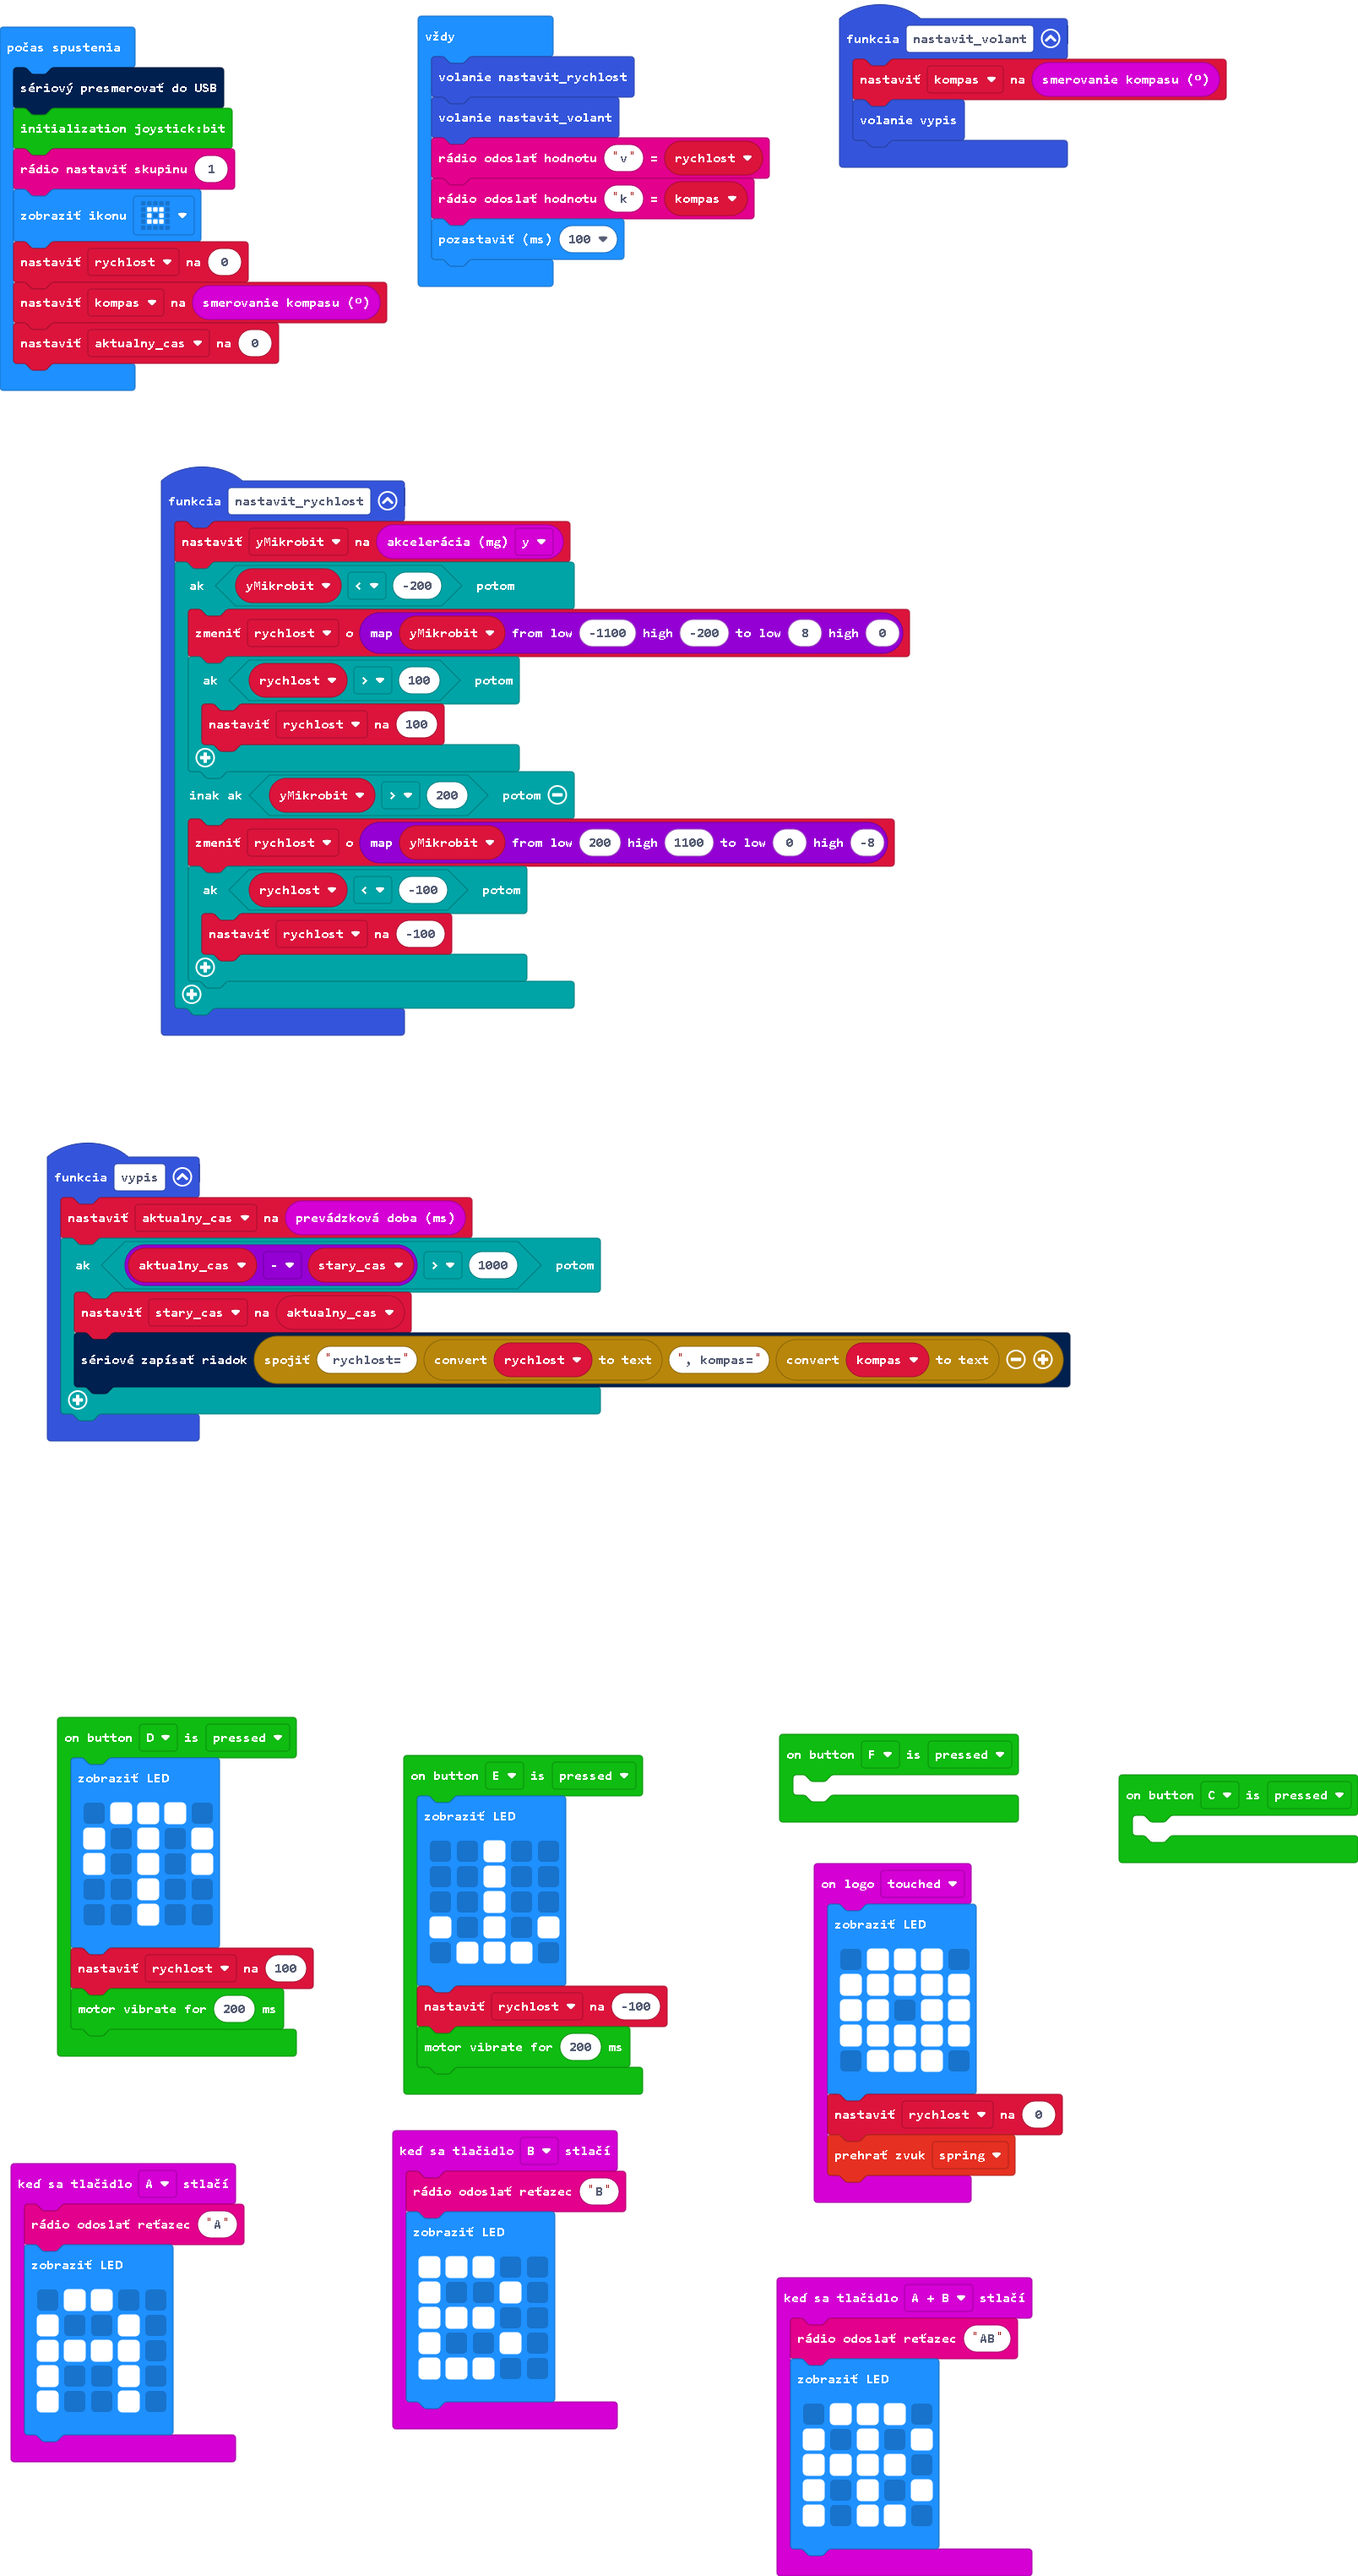
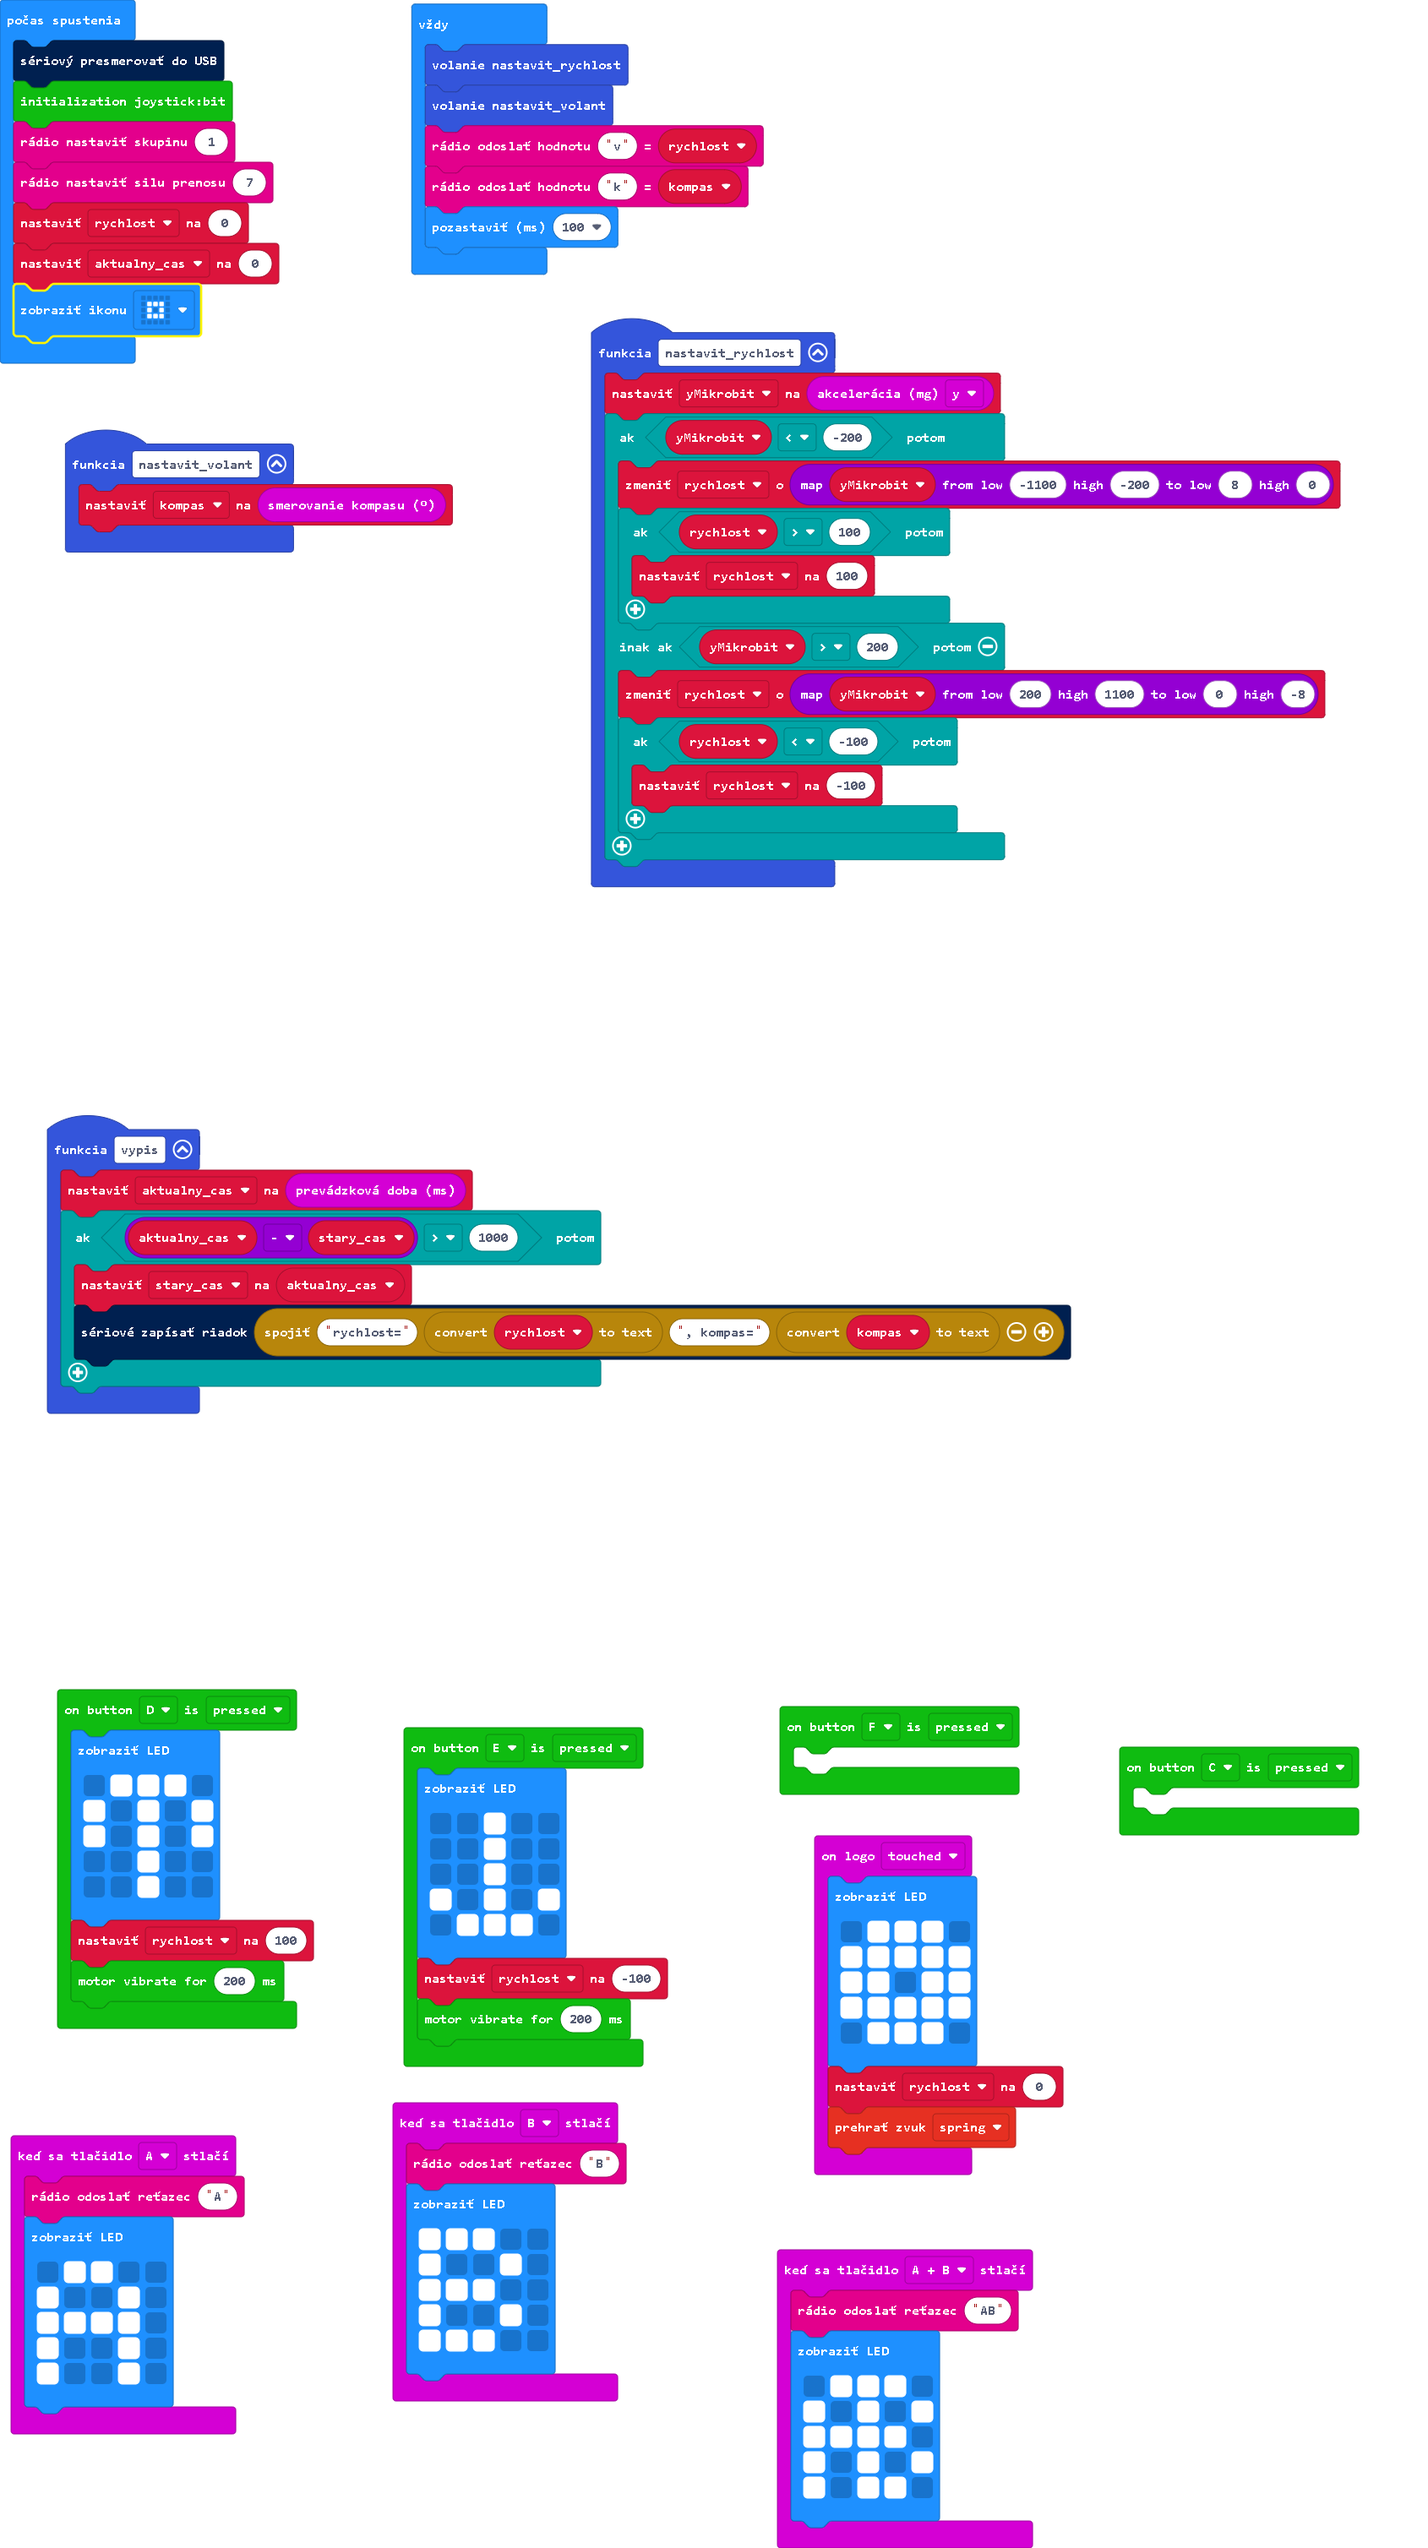
Aktualizovať main.blocks, main.ts

diff --git a/main.ts b/main.ts
@@ -51,7 +51,6 @@ input.onButtonPressed(Button.B, function () {
 })
 function nastavit_volant () {
     kompas = input.compassHeading()
-    vypis()
 }
 input.onLogoEvent(TouchButtonEvent.Touched, function () {
     basic.showLeds(`
@@ -93,17 +92,17 @@ function nastavit_rychlost () {
     }
 }
 let yMikrobit = 0
+let kompas = 0
 let stary_cas = 0
 let aktualny_cas = 0
-let kompas = 0
 let rychlost = 0
 serial.redirectToUSB()
 joystickbit.initJoystickBit()
 radio.setGroup(1)
-basic.showIcon(IconNames.SmallSquare)
+radio.setTransmitPower(7)
 rychlost = 0
-kompas = input.compassHeading()
 aktualny_cas = 0
+basic.showIcon(IconNames.SmallSquare)
 basic.forever(function () {
     nastavit_rychlost()
     nastavit_volant()
